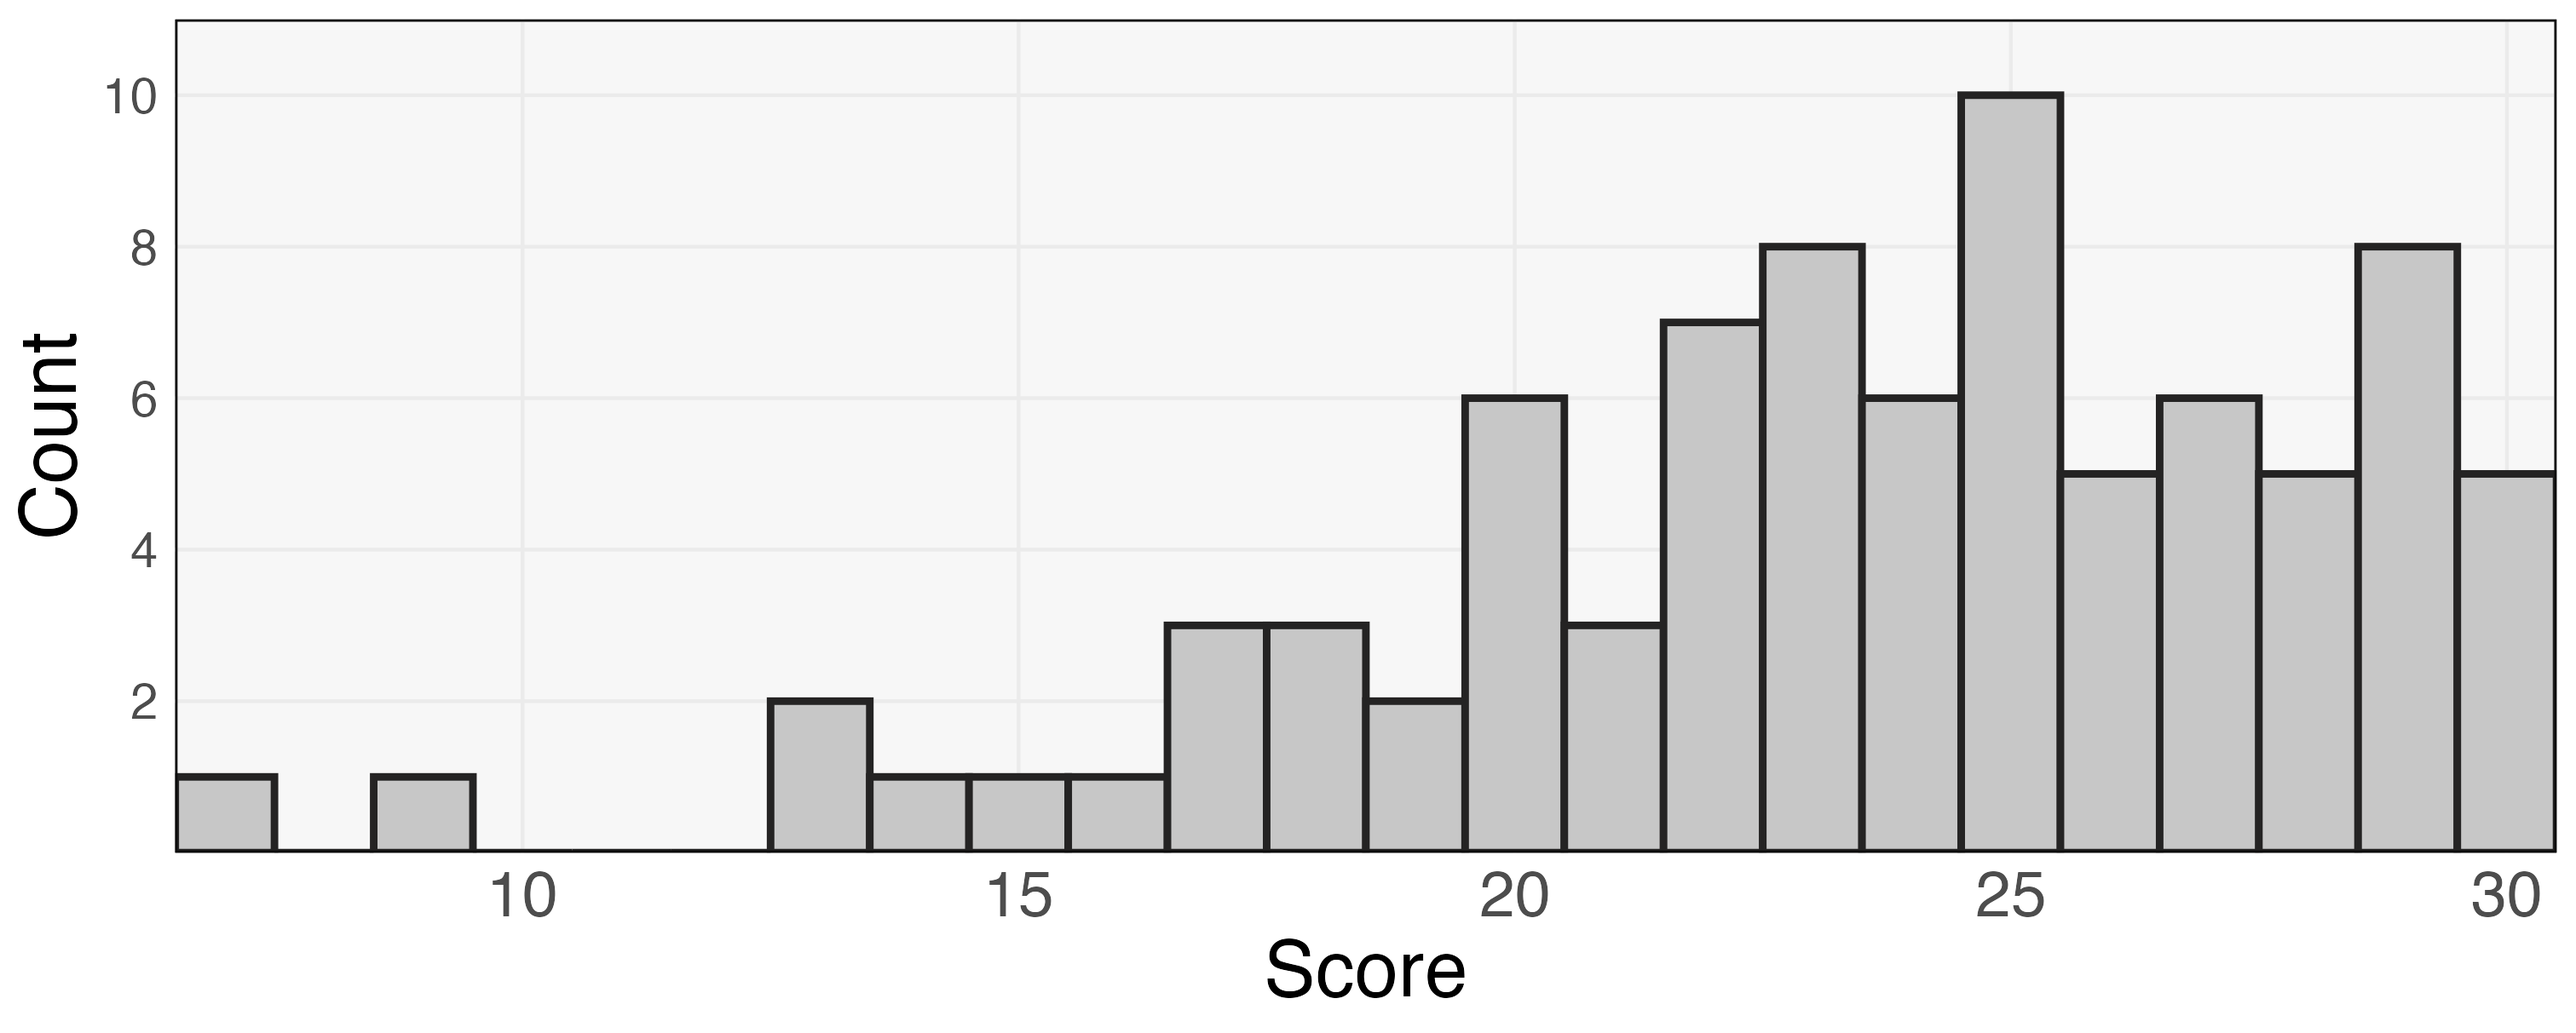
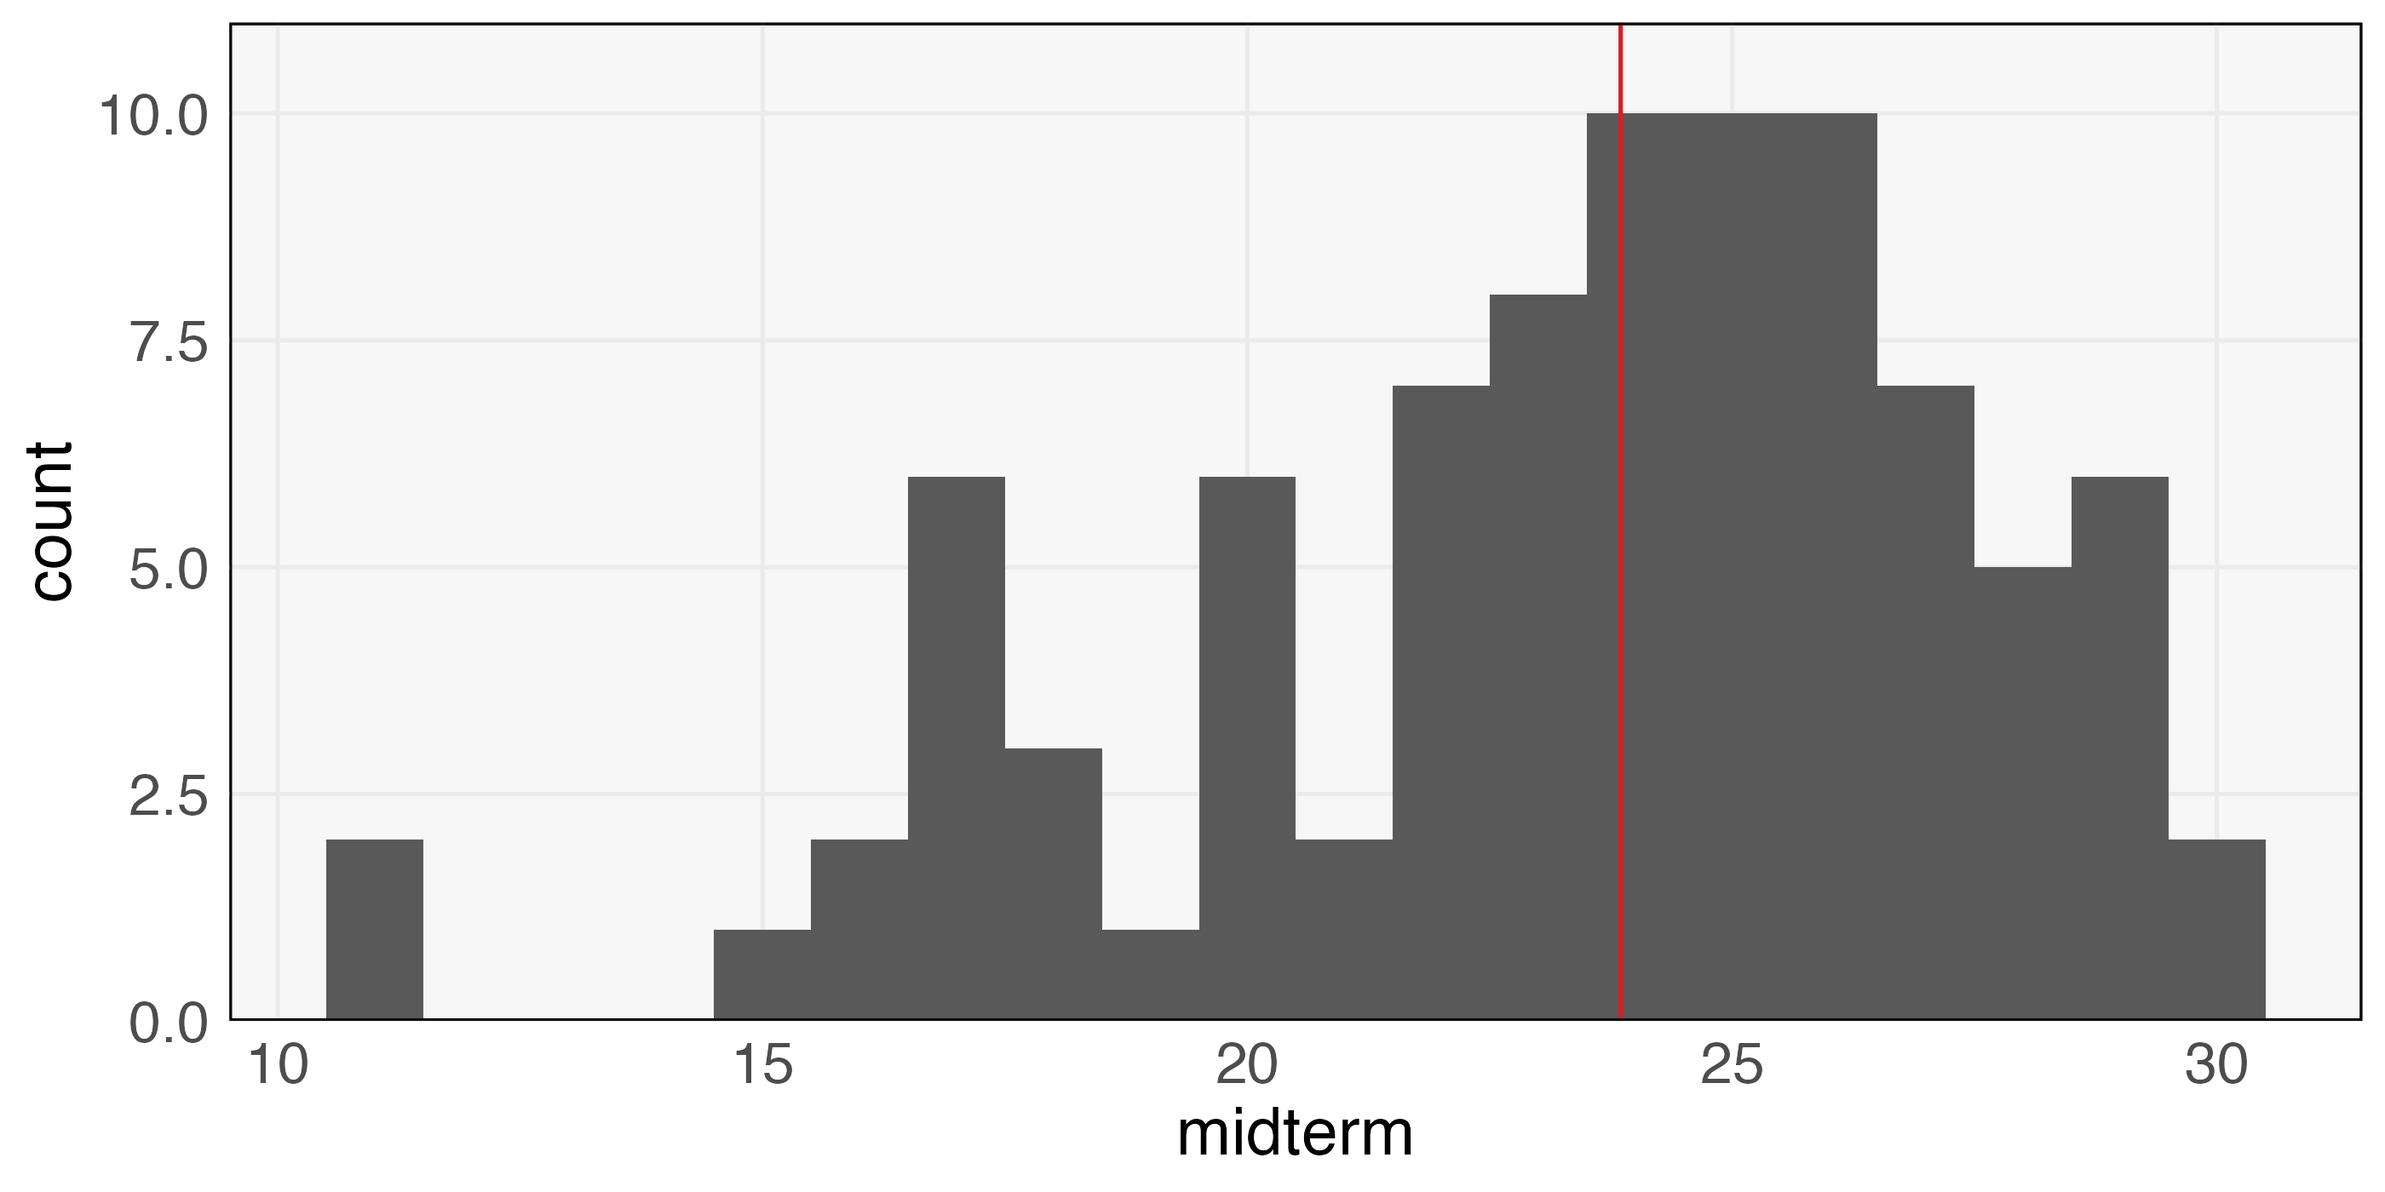
update slides

diff --git a/slides/slides.html b/slides/slides.html
@@ -546,7 +546,7 @@ class: day6-2-slide
 
 Visualization: [Nombre Quotidien de Trains sur le Reseau du Nord](cheysson_railroads.png) by Émile Cheysson and the Ministry of Public Works (1893)
 
-Music: Prokofiev Classical Symphony played by the Munich Philharmonic (Celibadache)
+Music: Prokofiev Classical Symphony played by the Munich Philharmonic (Celibidache)
 
 ---
 
@@ -568,6 +568,73 @@ Music: Prokofiev Classical Symphony played by the Munich Philharmonic (Celibadac
 1. Notes on Color
 
 1. Exercise 6
+
+---
+
+class: day7-1-slide
+
+&lt;img src="figures/madrid.webp" style="display: block; height: 620px; width: auto; margin: 0 auto;"&gt;
+
+---
+
+## Background
+
+Visualization: [Madrid building footprints](https://dominicroye.github.io/project/) by Dominic Roye
+
+Music: Bach Well Tempered Clavier II played by Xiao-Mei Zhu
+
+---
+
+### Announcements
+
+1. Homework 3 is posted and due October 16
+
+1. Midterm is in-class on October 22
+
+  - Instructions are the same as practice midterm
+
+---
+
+&lt;img src="figures/imhof-relief.jpg" style="display: block; height: 620px; width: auto; margin: 0 auto;"&gt;
+
+---
+
+&lt;img src="figures/imhof-sketch.jpg" style="display: block; height: 620px; width: auto; margin: 0 auto;"&gt;
+
+---
+
+## Background
+
+Visualization: [Relief sketch](https://socks-studio.com/2015/01/21/the-map-as-an-artistic-territory-relief-shading-works-and-studies-by-eduard-imhof/) by Eduard Imhof
+
+Music: Adams Hallelujah Junction played by Lukas Geniušas and Anna Geniushene
+
+---
+
+### Announcements
+
+1. Homework 4 is posted and due Novemer 6
+
+1. Discussion 7 is due October 29
+
+1. Office hours room access: Send us an email if you cannot enter the hallway after 5pm
+
+---
+
+## Midterm Summary
+
+- Exam is 35% of grade
+- Final exam will be 60 points
+- We added 1 point for everyone
+- Will return exams after class (can also come to our OH)
+
+---
+
+## Midterm Summary
+
+![](figures/midterm.png)
+
+---
     </textarea>
 <style data-target="print-only">@media screen {.remark-slide-container{display:block;}.remark-slide-scaler{box-shadow:none;}}</style>
 <script src="https://remarkjs.com/downloads/remark-latest.min.js"></script>
